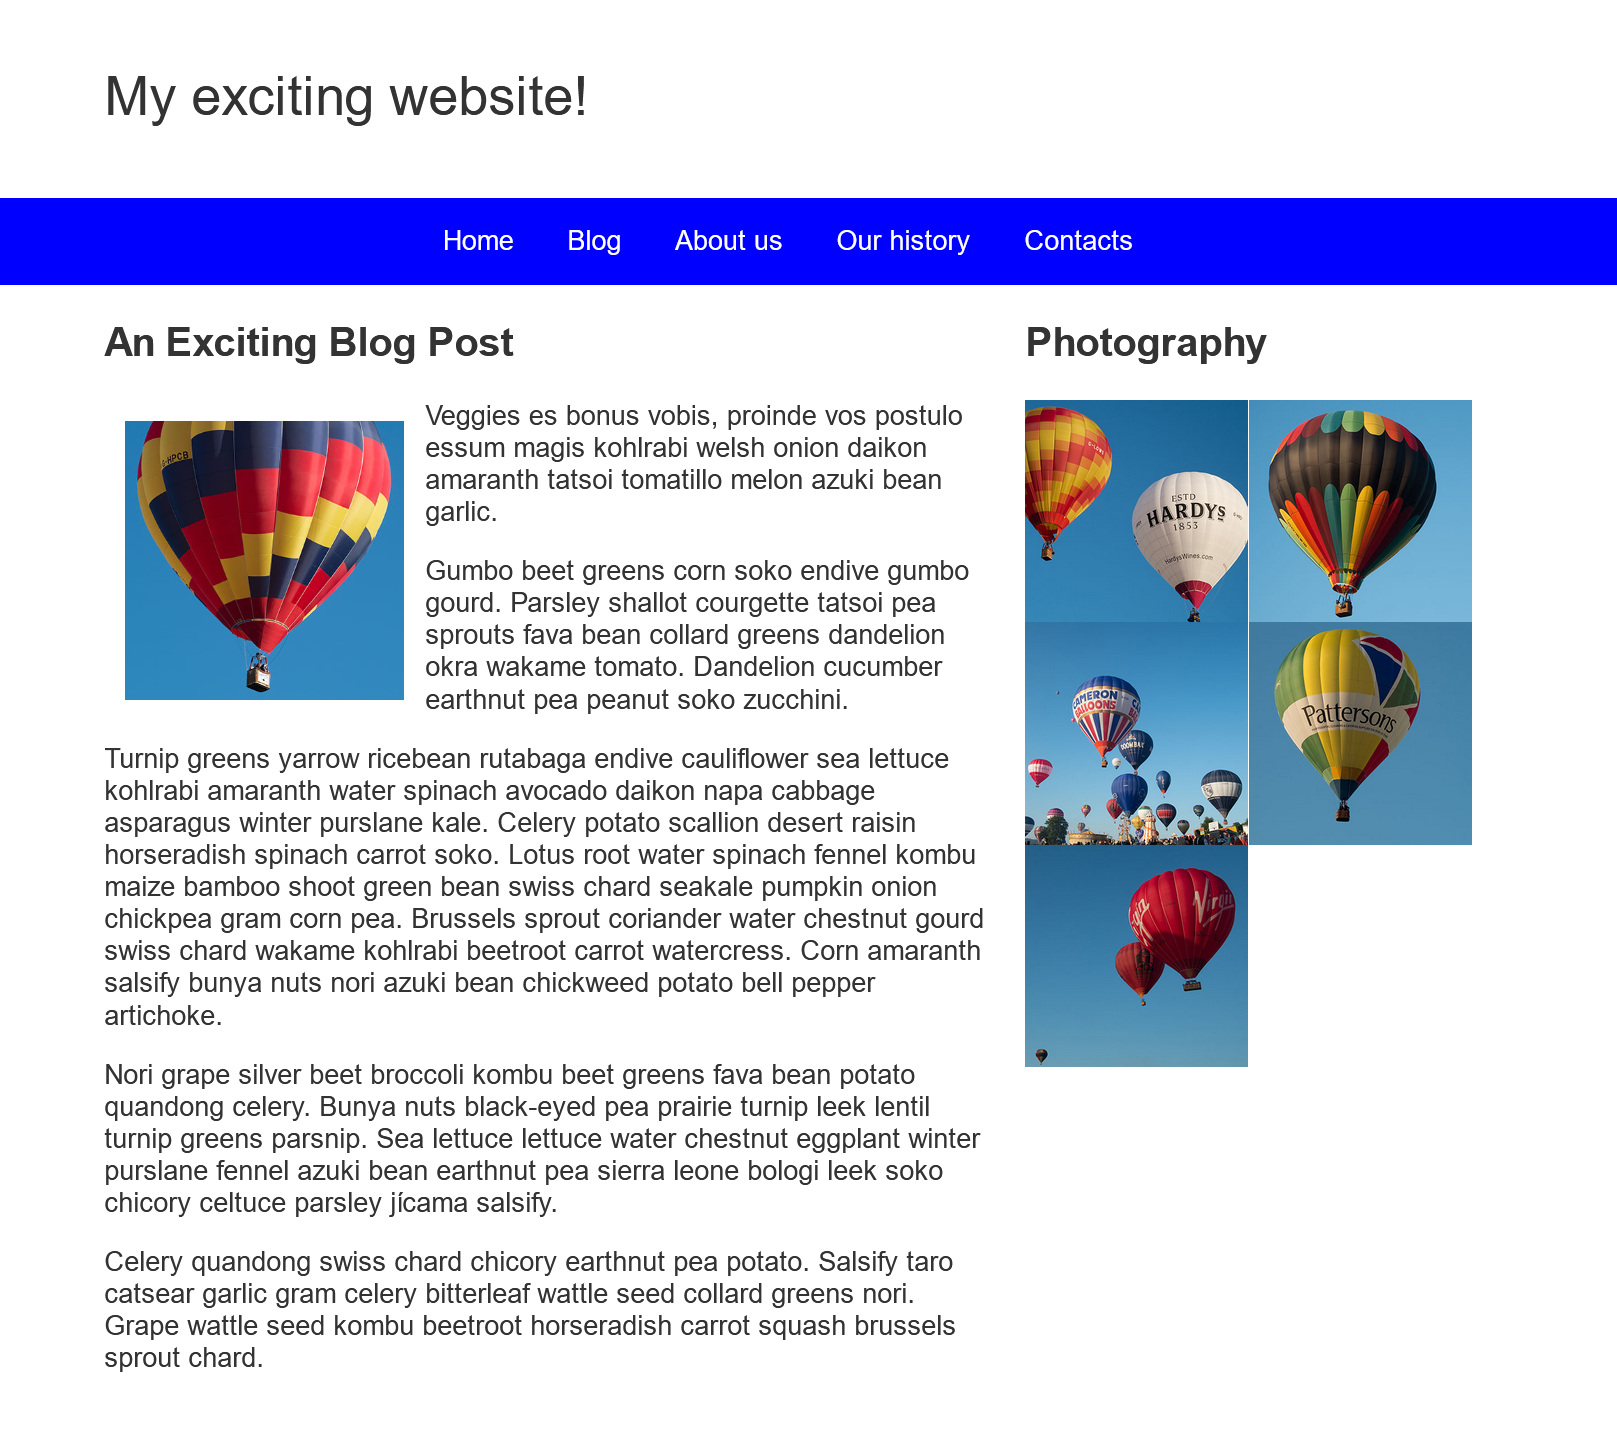
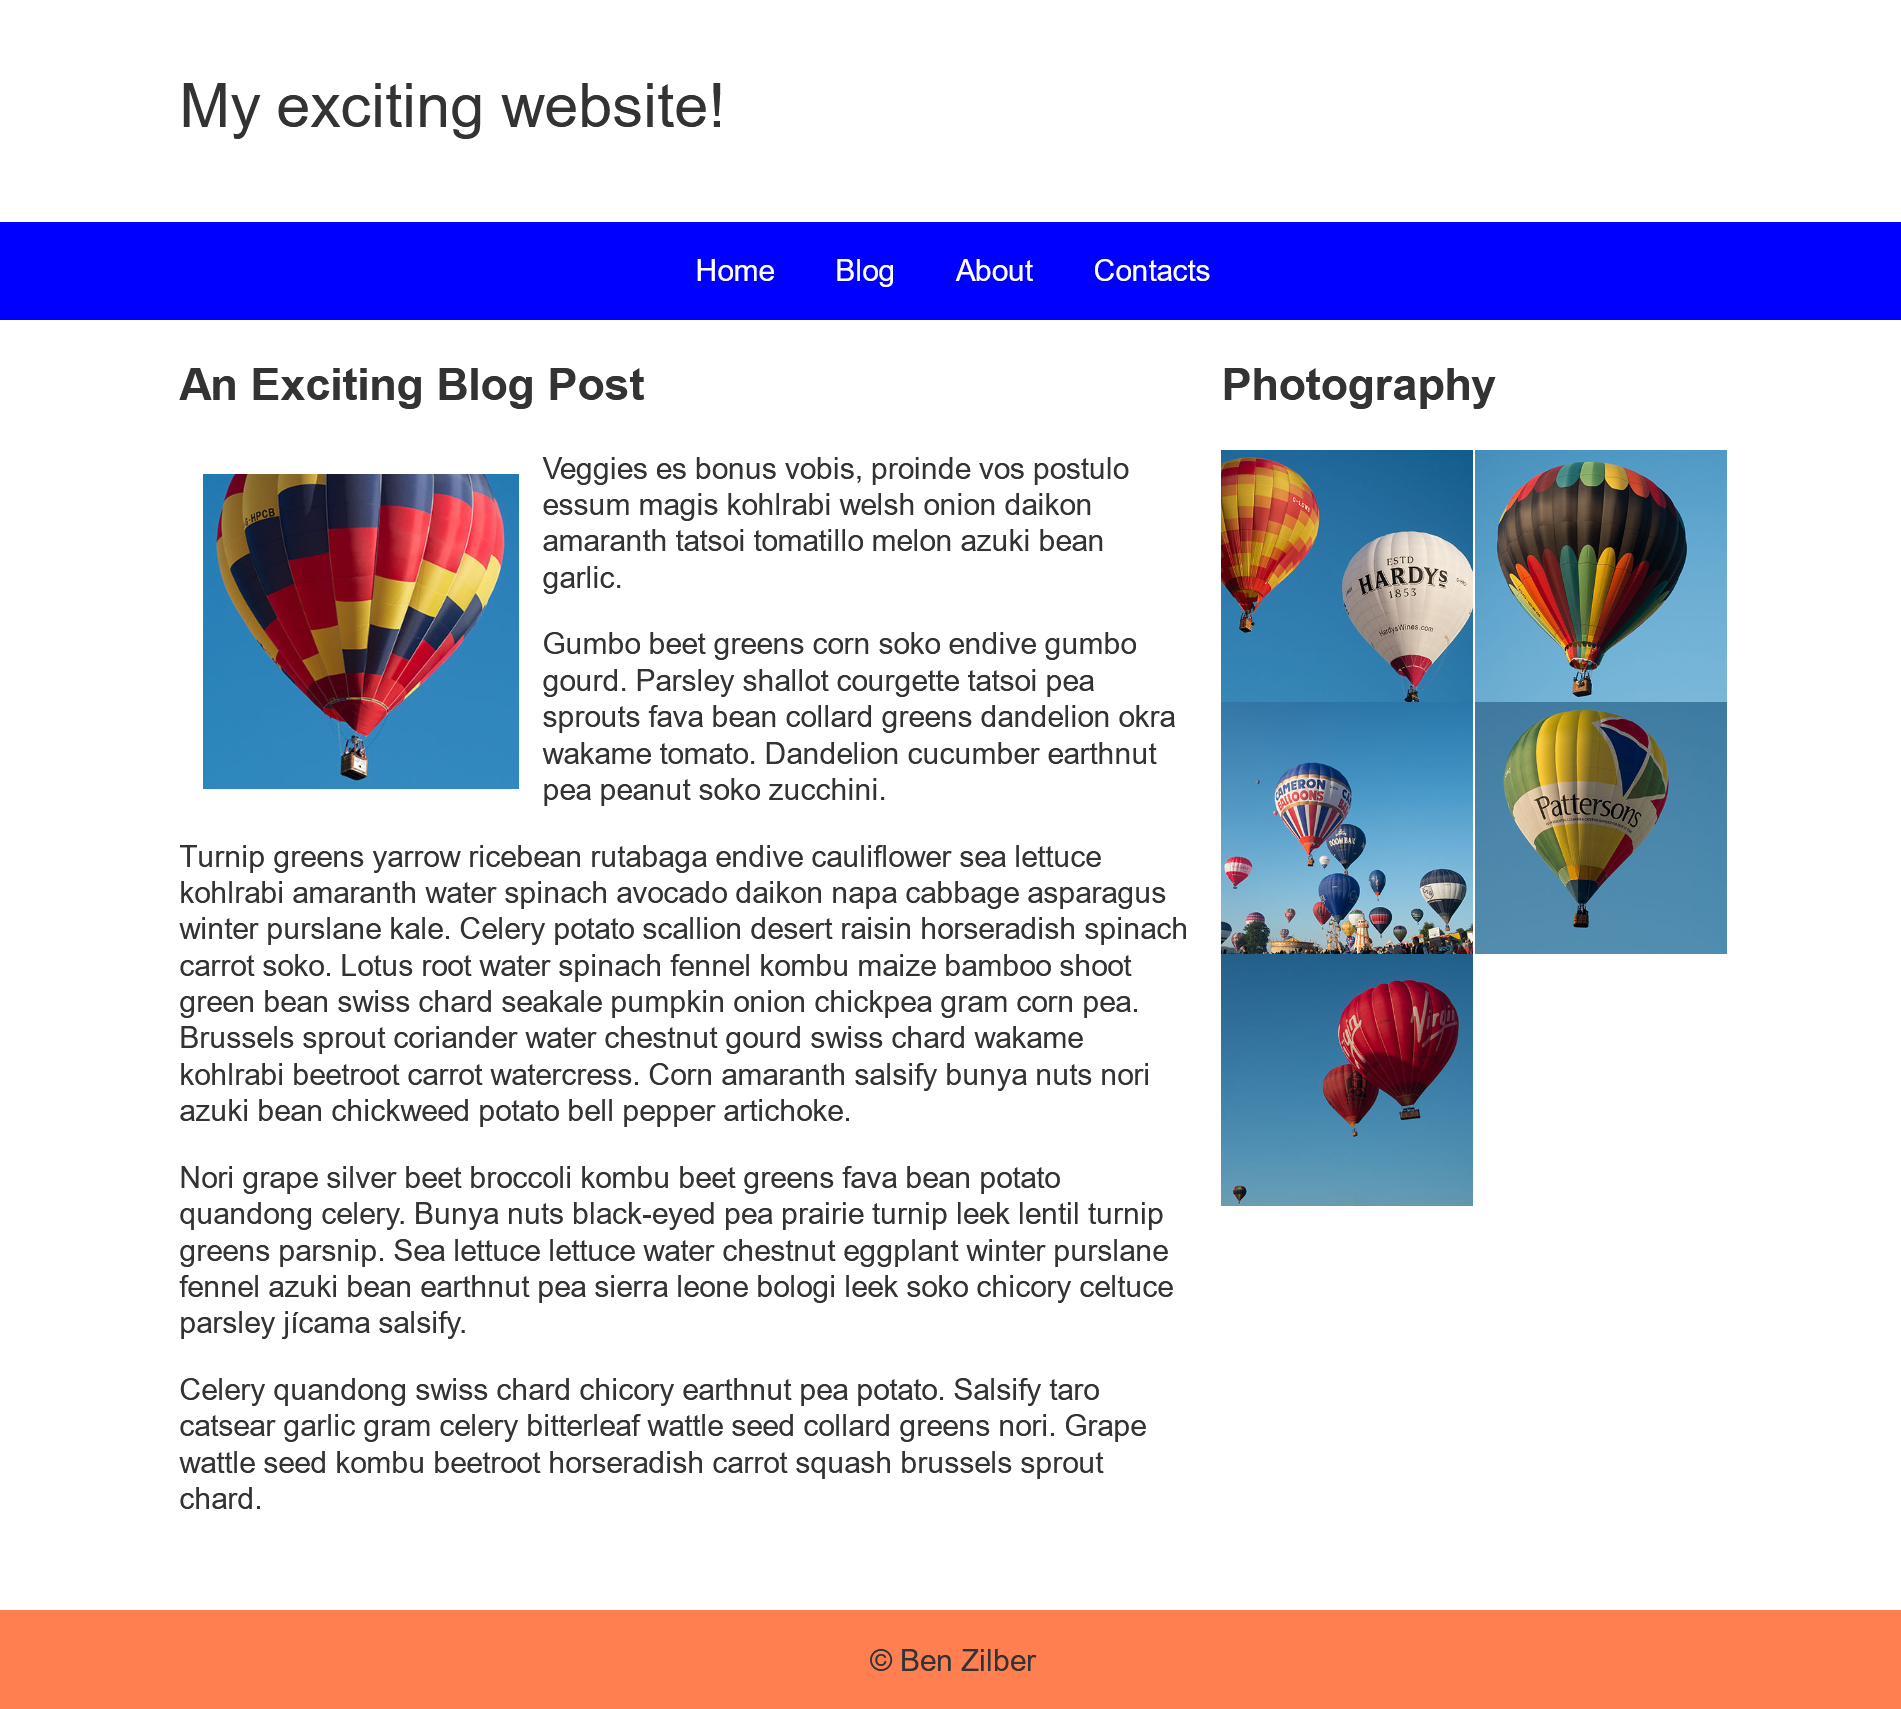
added footer

Changed region(s): [[0.0, 0.1246, 1.0, 1.0], [0.0618, 0.0311, 0.3711, 0.0934]]

diff --git a/styles.css b/styles.css
@@ -50,6 +50,12 @@ body {
       width: 200px;
   }
 
+  footer {
+    background: coral;
+    text-align: center;
+    margin-top: 40px;
+    padding:1px;
+  }
   /* flexbox below here for navbar w/ stick position  */
 
   nav {
@@ -101,4 +107,18 @@ aside{
 
 h2{
   column-span: all
+}
+
+/*reponsive*/
+
+@media(max-width:600px){
+  article{
+    width: 100%;
+    float: none;
+  }
+
+  aside{
+    width: 100%;
+    float: none;
+  }
 }

diff --git a/index.html b/index.html
@@ -23,10 +23,7 @@
         <a href="">Blog</a>
       </li>
       <li>
-        <a href="">About us</a>
-      </li>
-      <li>
-        <a href="">Our history</a>
+        <a href="">About</a>
       </li>
       <li>
         <a href="">Contacts</a>
@@ -85,7 +82,9 @@
 
     </aside>
   </main>
-
+  <footer>
+    <p>&copy Ben Zilber</p>
+  </footer>
 </body>
 
 </html>
